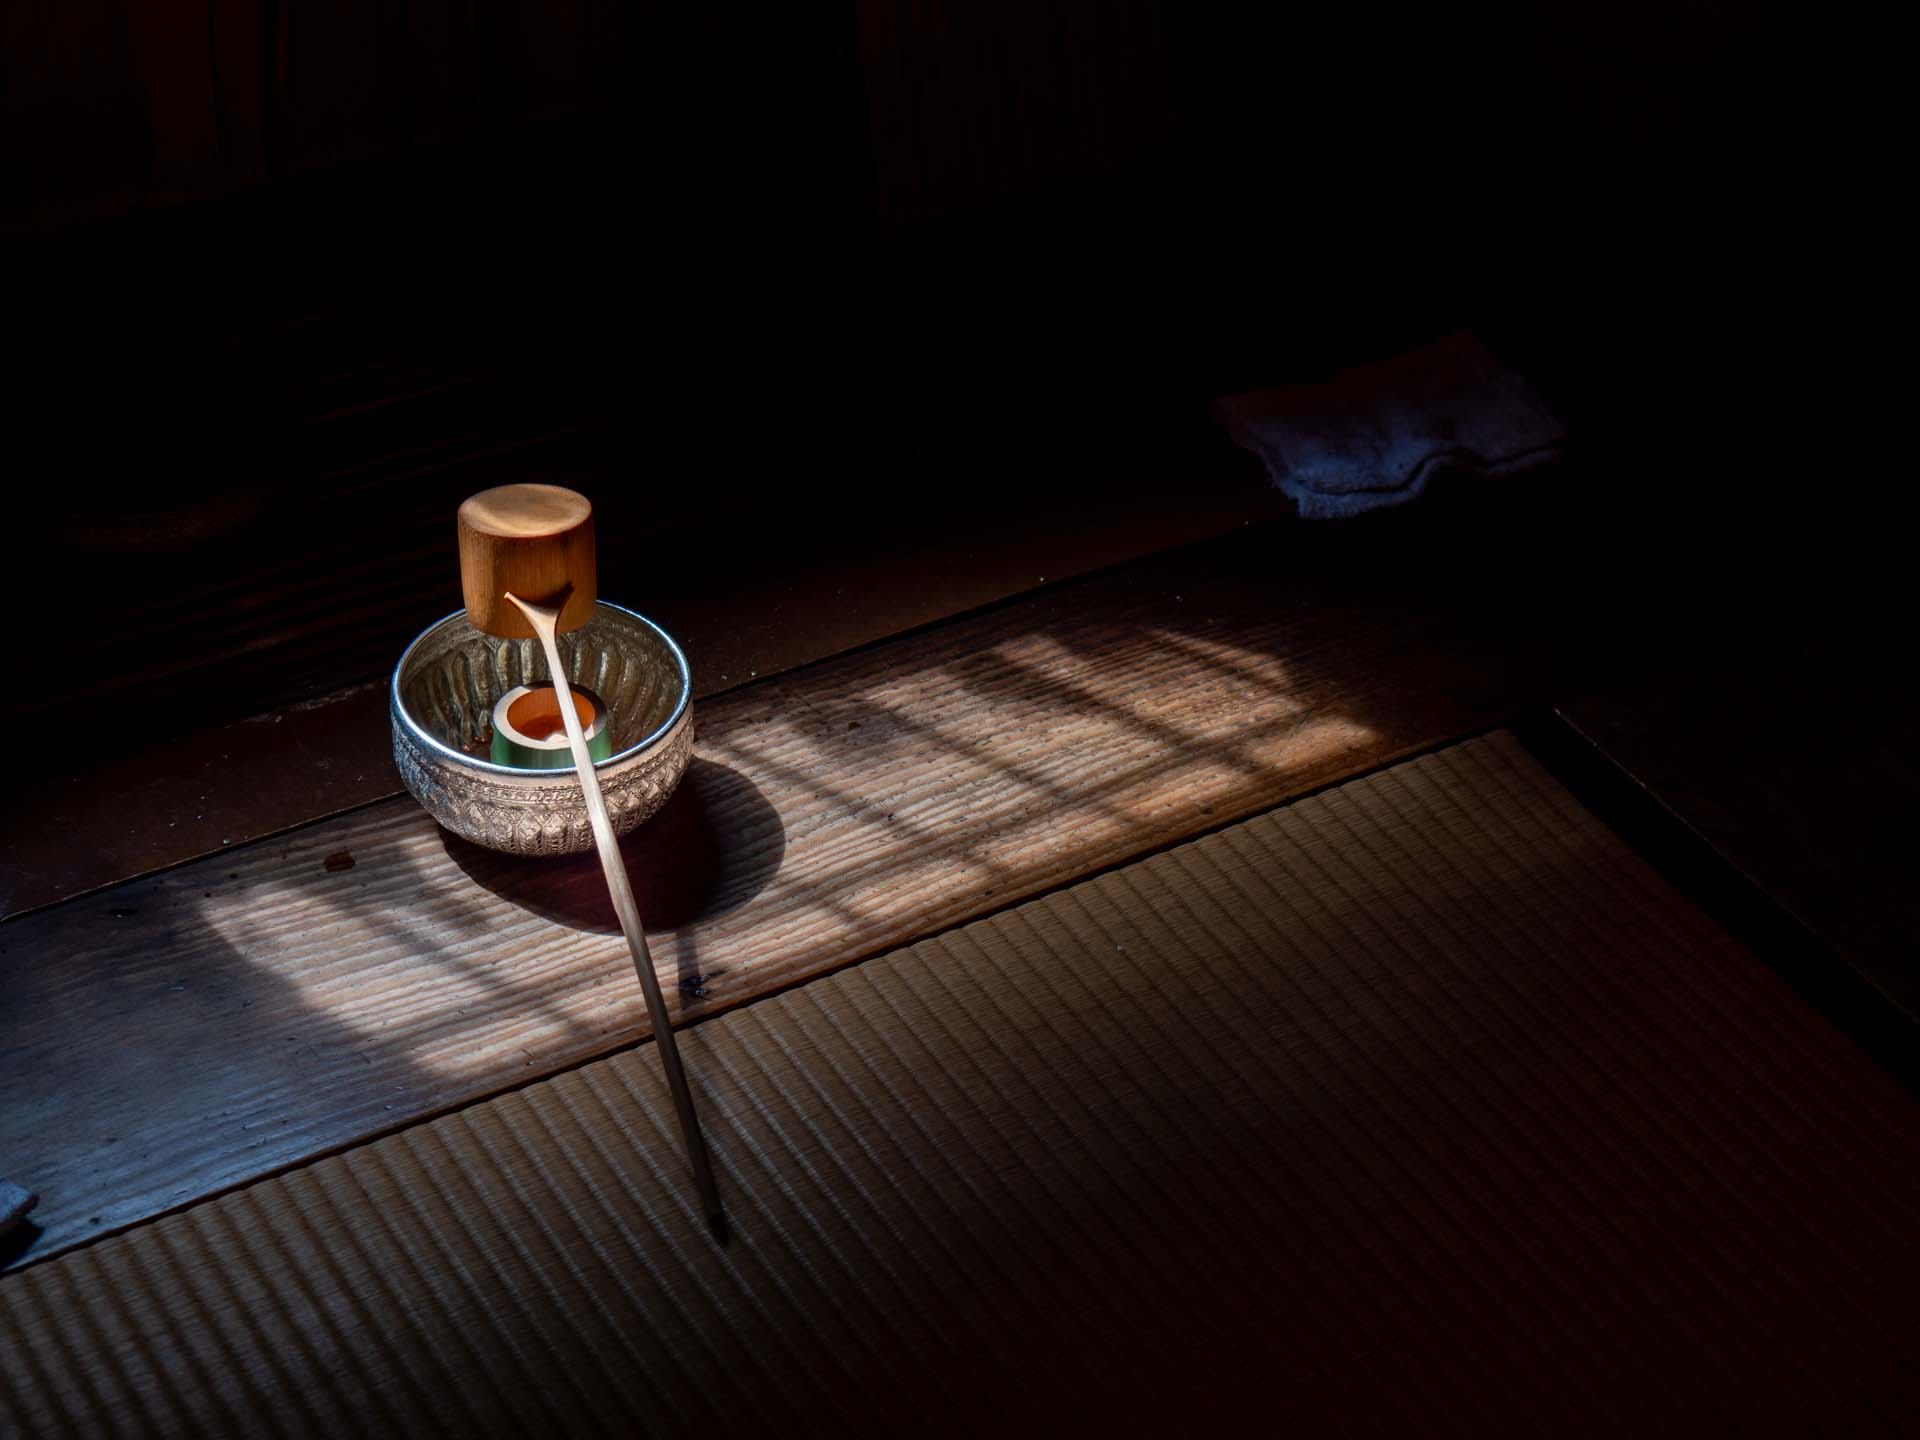
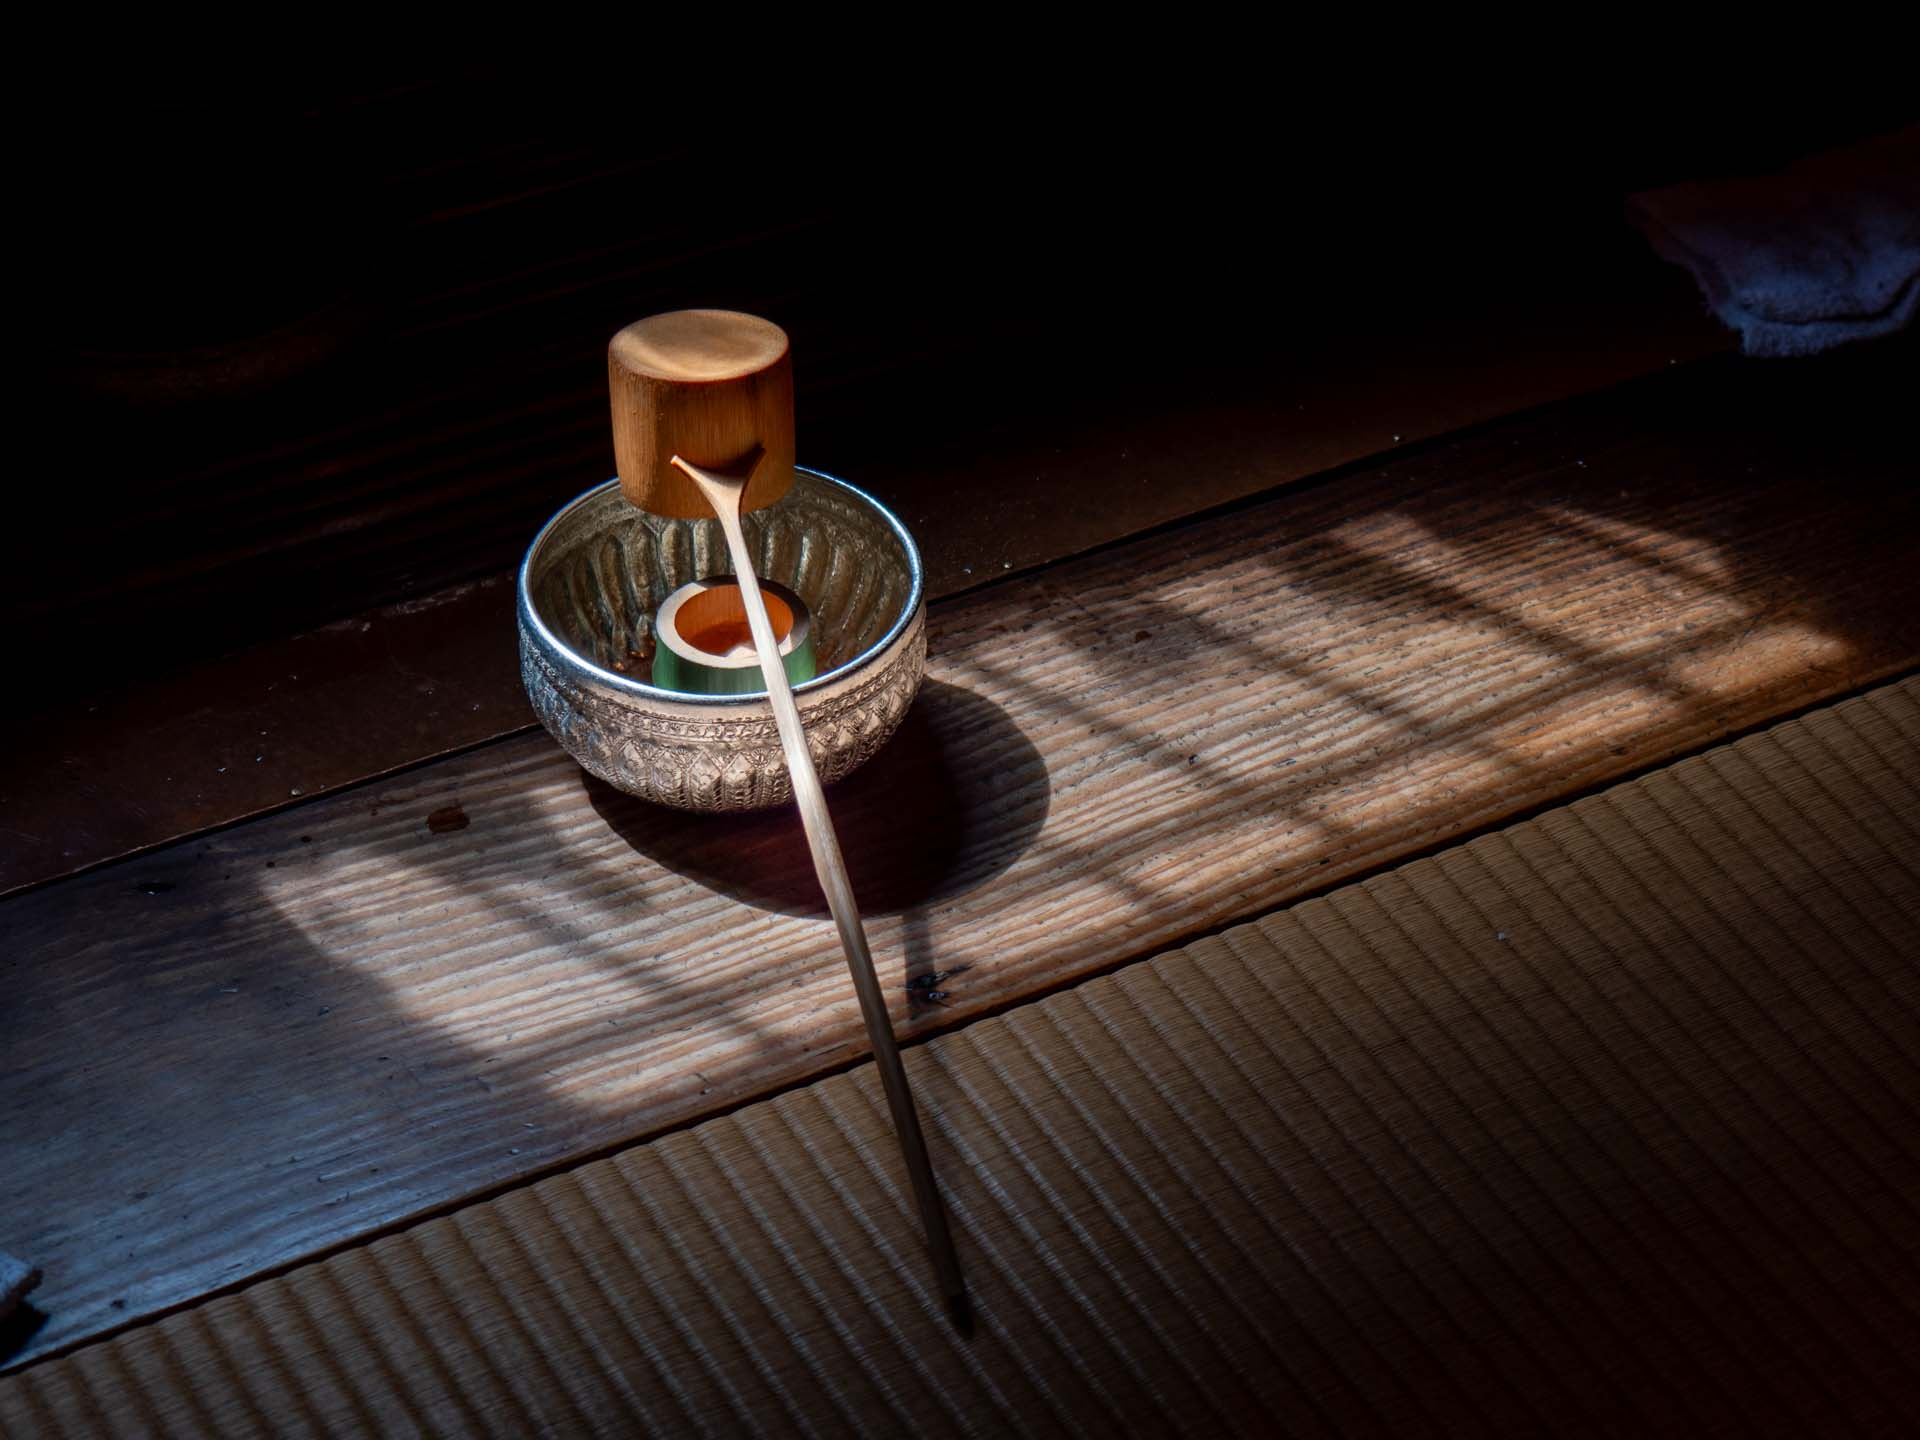
fix slider

diff --git a/src/app/en/experiences/_data/experiences.js b/src/app/en/experiences/_data/experiences.js
@@ -93,19 +93,19 @@ export const experiences = [
         alt: "Preparing tea in Kyoto",
       },
       {
-        src: "/images/experiences/TeaExJack/02_1011535.jpg",
+        src: "/images/experiences/TeaExJack/02_G9_7765.jpg",
         alt: "Traditional tea utensils",
       },
       {
-        src: "/images/experiences/TeaExJack/03_1011518.jpg",
+        src: "/images/experiences/TeaExJack/03_1011529.jpg",
         alt: "Tea room with charcoal fire",
       },
       {
-        src: "/images/experiences/TeaExJack/04_1011530.jpg",
+        src: "/images/experiences/TeaExJack/04_1011514.jpg",
         alt: "Preparing tea in Kyoto",
       },
       {
-        src: "/images/experiences/TeaExJack/05_G9_7950.jpg",
+        src: "/images/experiences/TeaExJack/05_G9_7792.jpg",
         alt: "Traditional tea utensils",
       },
       {
@@ -141,7 +141,11 @@ export const experiences = [
         alt: "Traditional tea utensils",
       },
       {
-        src: "/images/experiences/TeaExJack/14_1011533.jpg",
+        src: "/images/experiences/TeaExJack/14_1011457.jpg",
+        alt: "Traditional tea utensils",
+      },
+      {
+        src: "/images/experiences/TeaExJack/15_G9_7802.jpg",
         alt: "Traditional tea utensils",
       },
     ],

diff --git a/src/app/en/experiences/_components/ExperienceSlider.jsx b/src/app/en/experiences/_components/ExperienceSlider.jsx
@@ -11,7 +11,7 @@ import "swiper/css/navigation";
 import styles from "../experiences.module.scss";
 
 export default function ExperienceSlider({ images = [] }) {
-  const displayImages = images.slice(0, 15);
+  const displayImages = images.slice(0, 16);
 
   if (displayImages.length === 0) {
     return null;